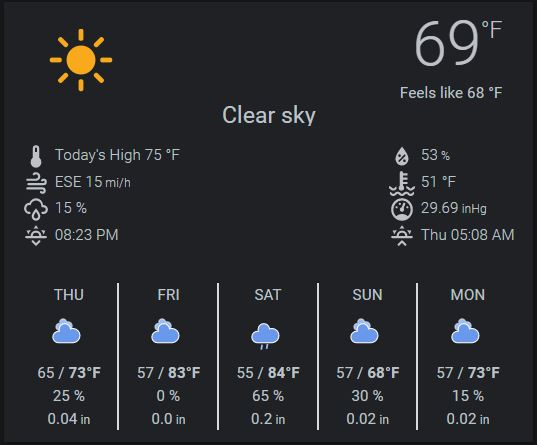
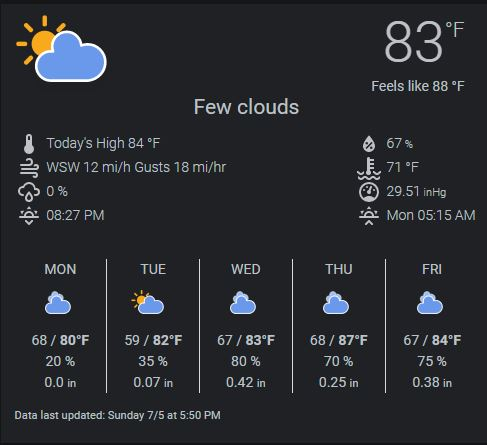
Fix/update documentation; new card picture; new card config

diff --git a/README.md b/README.md
@@ -166,8 +166,17 @@ The card is very customizable.  You can configure many aspects of its look and f
     wbit_alt_wind:
       value_template: >-
                       {% set winddir = ['North','North-Northeast','Northeast','East-Northeast','East','East-Southeast','Southeast','South-Southeast','South','South-Southwest','Southwest','West-Southwest','West','West-Northwest','Northwest','North-Northwest','North'] %}
-                      {{ states('sensor.dark_sky_wind_speed') | round }} mi/h from the {{ winddir[((states('sensor.dark_sky_wind_bearing') | float / 360)*16) | round]}}
+                      {{ states('sensor.weatherbit_wind_speed') | round }} mi/h from the {{ winddir[((states('sensor.weatherbit_wind_bearing') | float / 360)*16) | round]}}
     ~~~~~
+
+    or, alternatively, if you choose to make a template sensor for the wind gust, you could do:
+
+    ~~~~~
+    wbit_alt_wind:
+      value_template: >-
+        {{ states('sensor.weatherbit_wind_direction') }} {{ states('sensor.weatherbit_wind_speed') | round }} mi/h Gusts {{ states('sensor.wbit_wind_gust') | round }} mi/hr
+    ~~~~~
+
 
     Flags are used to control the look and feel of the card (See below for details).  The card shown above uses the following flag settings:
 
